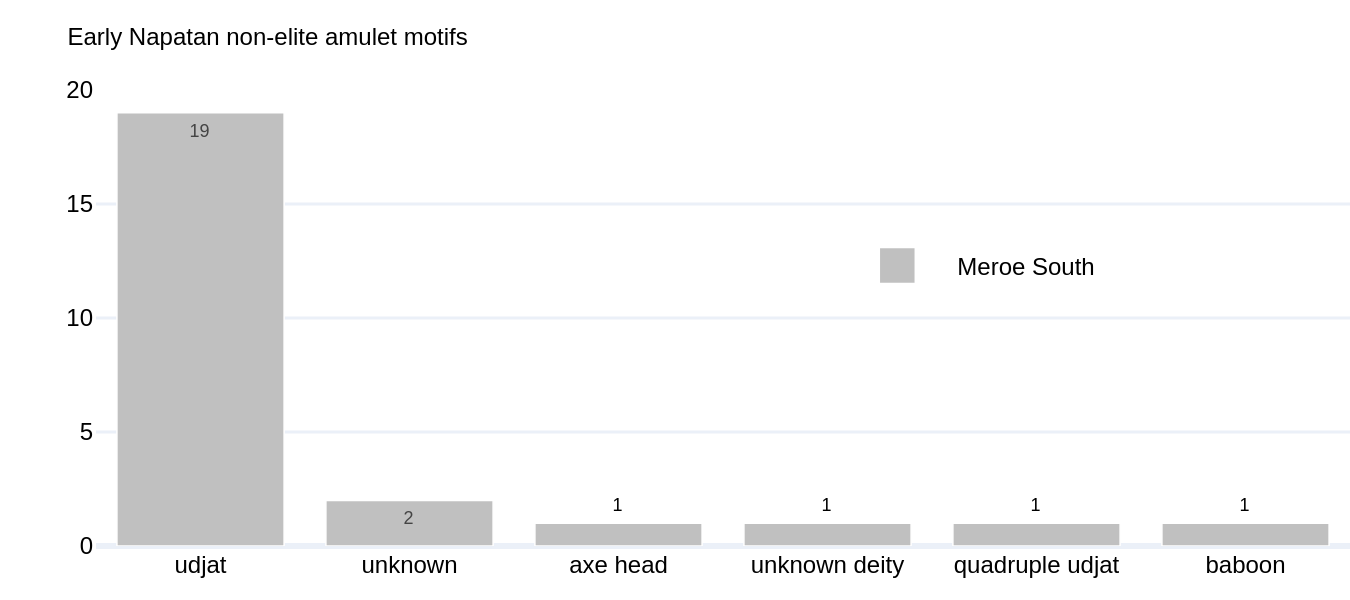
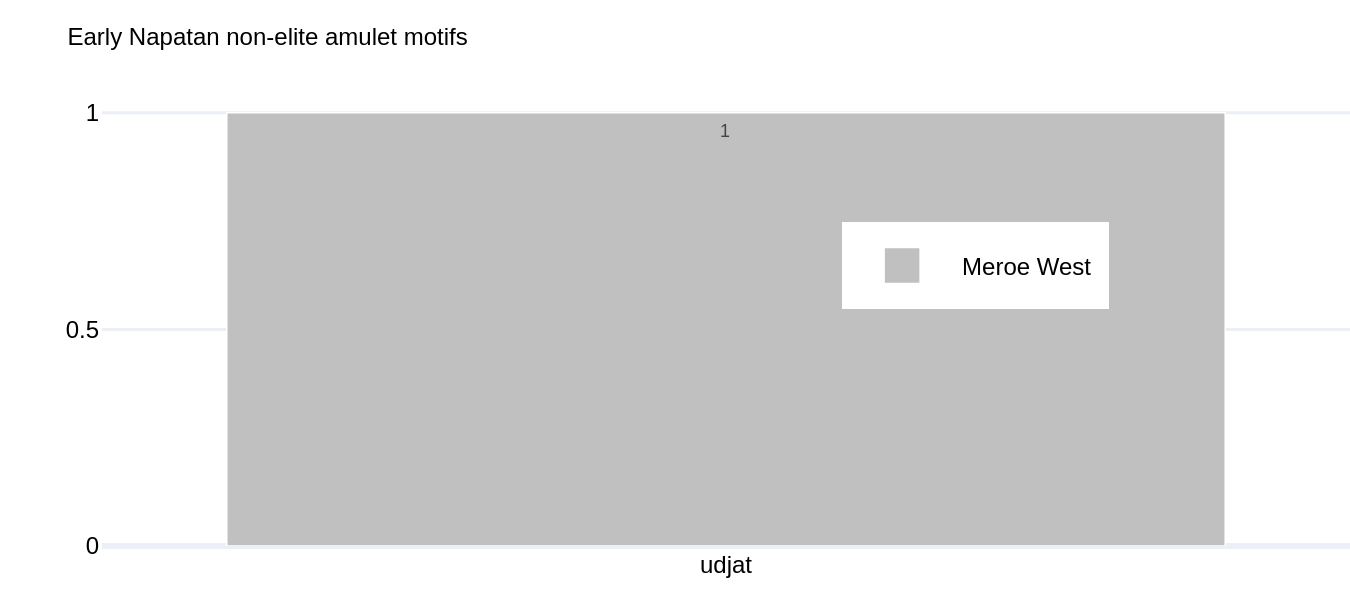
revised graphs

diff --git a/chapter5/25-EN_amulets_form_1.py b/chapter5/25-EN_amulets_form_1.py
@@ -16,12 +16,12 @@ WITH expanded_forms AS (
     JOIN sites s ON s.site_id = b.site_id
     WHERE 
         dating = 'napatan'
-        AND temp = '25th'
+        AND temp = '25th-EN'
         AND s.site_id IN (4,5,6,7,8,9,10)
         AND a.form IS NOT NULL
         and super != 'pyramid' 
         and sub not in ('chambers', 'cave tomb')
-        and type = 'deity'
+        AND type IN ('deity')
 
     UNION ALL
 
@@ -34,12 +34,12 @@ WITH expanded_forms AS (
     JOIN sites s ON s.site_id = b.site_id
     WHERE 
         dating = 'napatan'
-        AND temp = '25th'
+        AND temp = '25th-EN'
         AND s.site_id IN (4,5,6,7,8,9,10)
         AND a.form2 IS NOT NULL
         and super != 'pyramid' 
         and sub not in ('chambers', 'cave tomb')
-        and type = 'deity'
+        AND type IN ('deity')
 
     UNION ALL
 
@@ -52,12 +52,12 @@ WITH expanded_forms AS (
     JOIN sites s ON s.site_id = b.site_id
     WHERE 
         dating = 'napatan'
-        AND temp = '25th'
+        AND temp = '25th-EN'
         AND s.site_id IN (4,5,6,7,8,9,10)
         AND a.form3 IS NOT NULL
         and super != 'pyramid' 
         and sub not in ('chambers', 'cave tomb')
-        and type = 'deity'
+        AND type IN ('deity')
 )
 SELECT 
     site_name,
@@ -77,12 +77,12 @@ custom_colors = ['#e9724d', '#92cad1', '#d6d727', '#79ccb3', '#868686']
 
 fig = px.bar(
     df,
-    x="total",
-    y="form",
+    x="form",
+    y="total",
     color="site_name",
     text="total",
     barmode='stack',
-    title="25th Dynasty non-elite amulet deity motifs",
+    title="25th Dynasty-Early Napatan non-elite amulet motifs",
     labels={"super": "superstructure", "sub": "substructure", "site_name": "site"},
     color_discrete_sequence=custom_colors,
     template="plotly_white"
@@ -92,7 +92,7 @@ fig.update_layout(yaxis=dict(categoryorder='total ascending', automargin=True, t
     legend=dict(
         #orientation="h",
         yanchor="bottom",
-        y=0.40,
+        y=0.48,
         xanchor="center",
         x=0.80,
         traceorder='reversed'),
@@ -104,7 +104,7 @@ fig.update_layout(yaxis=dict(categoryorder='total ascending', automargin=True, t
     #yaxis=dict(
         #tickmode='linear',
         #dtick=1),
-    margin=dict(l=0, r=0, t=15, b=0),
+    margin=dict(l=0, r=0, t=20, b=0),
     autosize=True,
     title_font=dict(size=8)
 )
@@ -113,4 +113,4 @@ fig.update_traces(textposition='outside', textfont_size=6, width=0.9)
 fig.update_xaxes(title_text='')
 fig.update_yaxes(title_text='')
 
-pio.write_image(fig, 'images/chapter5/25_amulets_form_deities.png',scale=3, width=550, height=350)
+pio.write_image(fig, 'images/chapter5/25-EN_amulets_form_1.png',scale=3, width=550, height=350)

diff --git a/chapter5/EN_amulets_form.py b/chapter5/EN_amulets_form.py
@@ -16,7 +16,7 @@ WITH expanded_forms AS (
     JOIN sites s ON s.site_id = b.site_id
     WHERE 
         dating = 'napatan'
-        AND temp = 'EN'
+        AND temp = 'EN-MN'
         AND s.site_id IN (4,5,6,7,8,9,10)
         AND a.form IS NOT NULL
         and super != 'pyramid' 
@@ -33,7 +33,7 @@ WITH expanded_forms AS (
     JOIN sites s ON s.site_id = b.site_id
     WHERE 
         dating = 'napatan'
-        AND temp = 'EN'
+        AND temp = 'EN-MN'
         AND s.site_id IN (4,5,6,7,8,9,10)
         AND a.form2 IS NOT NULL
         and super != 'pyramid' 
@@ -50,7 +50,7 @@ WITH expanded_forms AS (
     JOIN sites s ON s.site_id = b.site_id
     WHERE 
         dating = 'napatan'
-        AND temp = 'EN'
+        AND temp = 'EN-MN'
         AND s.site_id IN (4,5,6,7,8,9,10)
         AND a.form3 IS NOT NULL
         and super != 'pyramid' 

diff --git a/chapter5/EN_amulets_mat.py b/chapter5/EN_amulets_mat.py
@@ -13,8 +13,10 @@ select
 from burials b
 join sites s on s.site_id = b.site_id
 join amulets a on a.burial_id = b.burial_id
-where dating = 'napatan' and b.site_id in (4,5,6,7,8,9,10) and material IS NOT NULL and temp = 'EN'
-    and super != 'pyramid' and sub not in ('chambers', 'cave tomb')
+where dating = 'napatan' and b.site_id in (4,5,6,7,8,9,10) and material IS NOT NULL 
+    and temp = 'EN-MN'
+    and super != 'pyramid' 
+    and sub not in ('chambers', 'cave tomb')
 group by 1,2
 """
 

diff --git a/chapter5/EN_objects.py b/chapter5/EN_objects.py
@@ -13,7 +13,7 @@ select
 from burials b
 join sites s on s.site_id = b.site_id
 join artifacts a on a.burial_id = b.burial_id
-where dating = 'napatan' and b.site_id in (4,5,6,7,8,9,10) and temp = 'EN'
+where dating = 'napatan' and b.site_id in (4,5,6,7,8,9,10) and temp = 'EN-MN'
     and super != 'pyramid' 
     and sub not in ('chambers', 'cave tomb')
 group by 1,2

diff --git a/chapter5/EN_amulets_type.py b/chapter5/EN_amulets_type.py
@@ -13,7 +13,7 @@ select
 from burials b
 join sites s on s.site_id = b.site_id
 join amulets a on a.burial_id = b.burial_id
-where dating = 'napatan' and b.site_id in (4,5,6,7,8,9,10) and temp = 'EN'
+where dating = 'napatan' and b.site_id in (4,5,6,7,8,9,10) and temp = 'EN-MN'
     and super != 'pyramid' 
     and sub not in ('chambers', 'cave tomb')
 group by 1,2

diff --git a/chapter5/EN_tombs.py b/chapter5/EN_tombs.py
@@ -13,7 +13,7 @@ select
     count(burial_id) as total
 from burials b
 join sites s on s.site_id = b.site_id
-where dating = 'napatan' and b.site_id in (4,5,6,7,8,9,10) and temp = 'EN'
+where dating = 'napatan' and b.site_id in (4,5,6,7,8,9,10) and temp = 'EN-MN'
    and super != 'pyramid' 
    and sub not in ('chambers', 'cave tomb')
 group by 1,2,3
